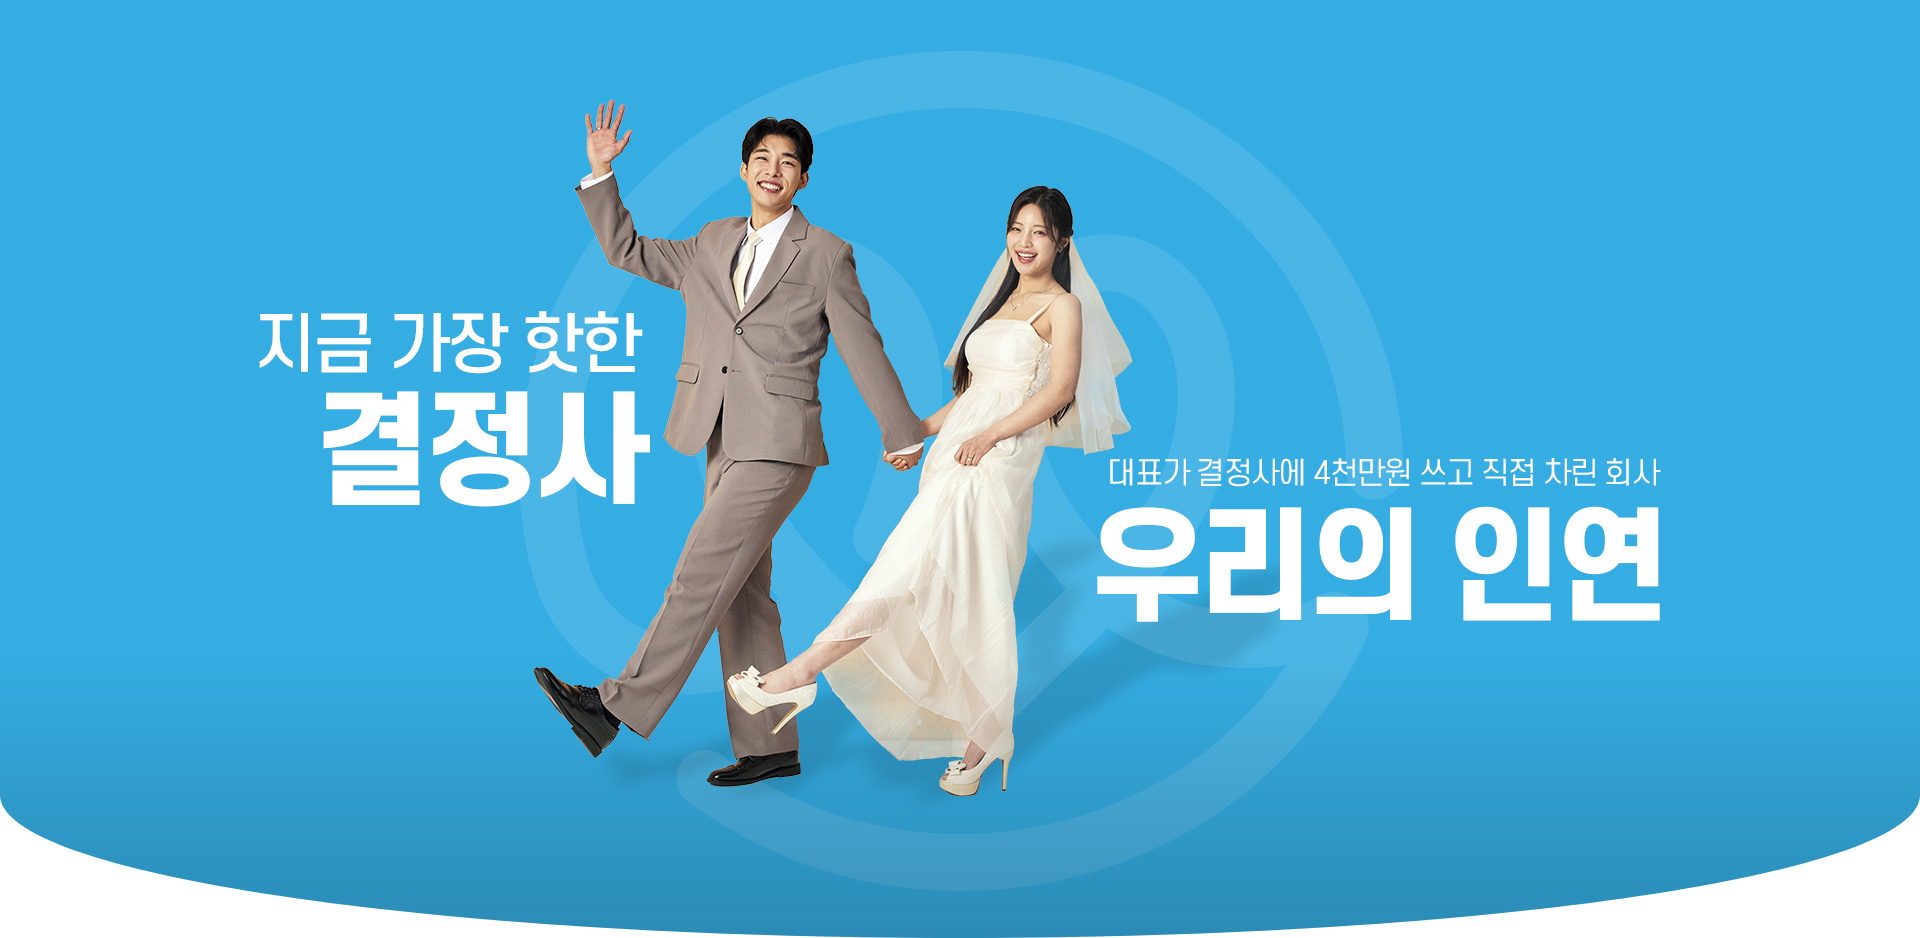
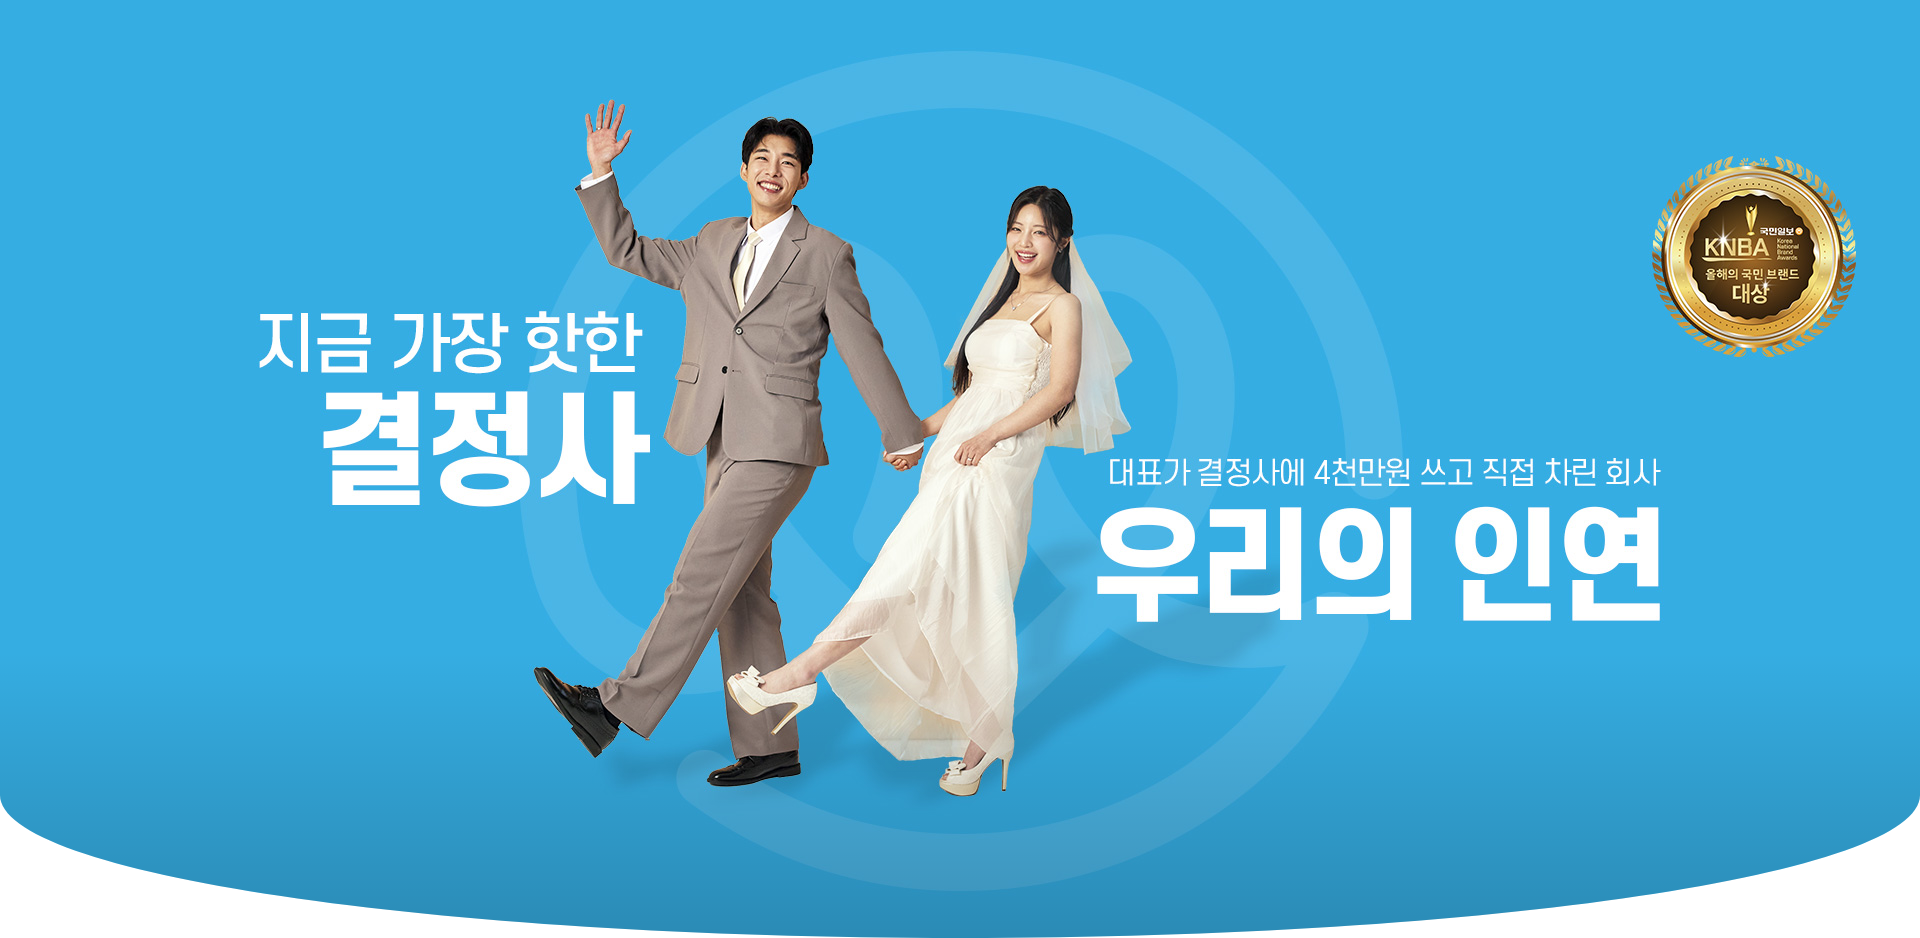
이메일 주소 수정 및 메인 이미지 수정

Changed region(s): [[0.8438, 0.1546, 0.9688, 0.4019]]

diff --git a/src/components/Footer.js b/src/components/Footer.js
@@ -21,7 +21,7 @@ export default function Footer({topPath}){
           <span className="dib">주소 <b>서울특별시 서초구 서초동 1330-3 엔데버빌딩 9층 2호</b></span>
           <span className="dib">TEL <b>02-2138-0638</b></span>
           <span className="dib">통신판매업신고 <b>2024-서울강남-02849</b></span>
-          <span className="dib">E-mail <b>coihelp@naver.com</b></span>
+          <span className="dib">E-mail <b>help@woo-yeon.com</b></span>
         </p>
         <p className="f_copyright tac pb100">Copyright@ 2024 우연 Co. Ltd. All Rights Reserved.</p>
       </div>

diff --git a/src/components/pages/Contact.js b/src/components/pages/Contact.js
@@ -102,8 +102,11 @@ export default function Contact(){
 							<table>
 								<tbody>
 									<tr>
-										<th className="fz18 ffsd6">E-mail</th>
-										<td className="fz18 c3">coihelp@naver.com</td>
+										<th className="fz18 ffsd6" rowSpan={2}>E-mail</th>
+										<td className="fz18 c3">help@woo-yeon.com</td>
+									</tr>
+									<tr>
+									<td className="fz18 c3">mkt@woo-yeon.com</td>
 									</tr>
 								</tbody>
 							</table>
